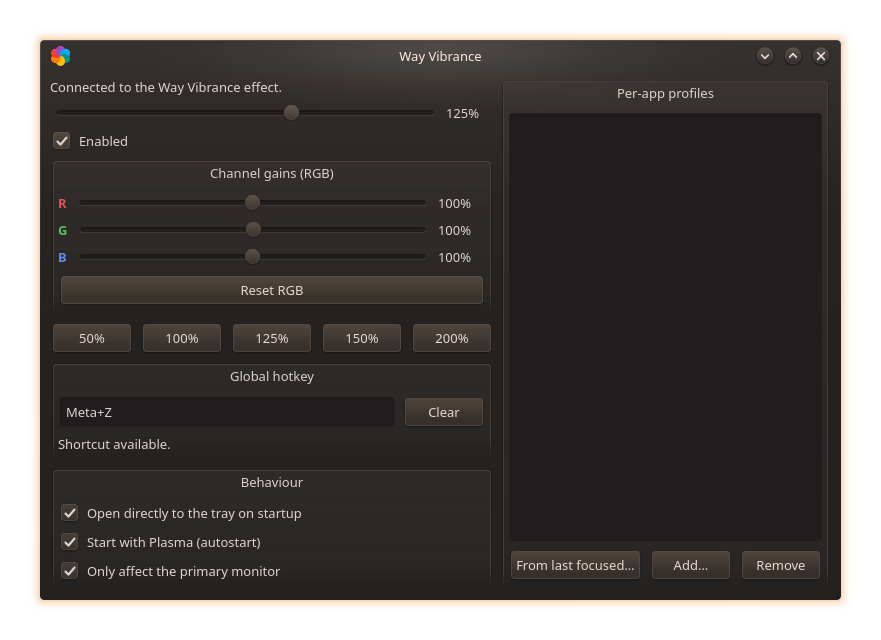
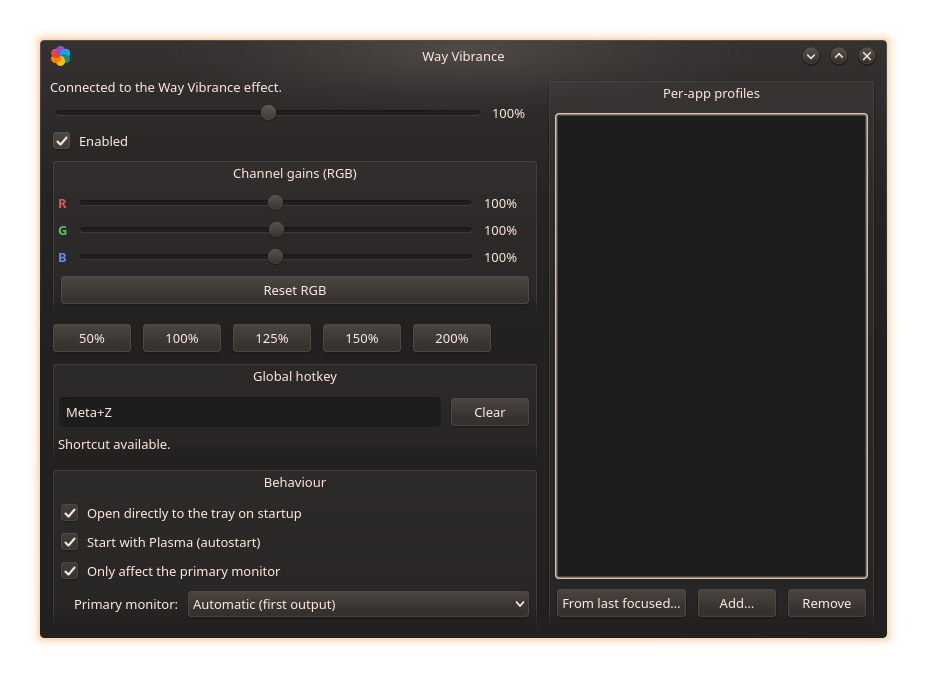
0.5.0: primary monitor targets a picked output
Release contents (since v0.4.0):
- 'Only affect the primary monitor' now scopes to a user-picked output by
  connector name (tray 'Primary monitor' dropdown / CLI 'wayvibrance
  primary {outputs|output <name>|output-get}'), persisted in kwinrc,
  hotplug-safe (falls back to the first output), replacing the
  pointer-following activeScreen() behaviour — with cached in-scope
  resolution per frame.
- New D-Bus surface: screenList(), primaryOutputName/setPrimaryOutputName,
  primaryOutputNameChanged signal; tray hides the picker on older effects.
- Fresh app screenshot showing the monitor dropdown.

Effect binary changed: log out and back in after installing.

diff --git a/tray/main.cpp b/tray/main.cpp
@@ -1486,7 +1486,7 @@ int main(int argc, char *argv[])
 
     KAboutData about(QStringLiteral("org.kde.wayvibrance-tray"),
                      QStringLiteral("Way Vibrance"),
-                     QStringLiteral("0.4.0"),
+                     QStringLiteral("0.5.0"),
                      QObject::tr("System-wide vibrance and per-channel RGB control for KDE Plasma on Wayland"),
                      KAboutLicense::GPL);
     about.setDesktopFileName(QStringLiteral("org.kde.wayvibrance-tray"));

diff --git a/README.pt.md b/README.pt.md
@@ -200,15 +200,18 @@ via D-Bus.
 
 ## Estado
 
-Funcional e em uso diário. Release atual: **v0.4.0** — perfis por
-aplicação/jogo (o carro-chefe do vibrance-gui, um passo à frente: por janela
-em vez de por foco): regras por glob `app:`/`title:` com ganhos de canal por
-perfil, nomes de exibição cosméticos, janela de edição própria com
-Apply/presets e atualização confiável via shaders em contexto; 50% entrou na
-fileira de presets; janela em dois painéis; CLI `wayvibrance app …`; o
-`build.sh` instala dependências sem nunca atualizar o sistema. Tudo do
-v0.3.0 (vibrância, ganhos RGB, hotkey, comportamento) segue valendo, com os
-sliders no teto real de 0–200%.
+Funcional e em uso diário. Release atual: **v0.5.0** — o modo "monitor
+primário" agora mira uma **saída escolhida pelo usuário** (dropdown no tray /
+`wayvibrance primary output <nome>`, persistida; "automático" = primeira
+saída), substituindo o antigo comportamento de seguir o cursor. Sobre a base
+da v0.4.0: perfis por aplicação/jogo (o carro-chefe do vibrance-gui, um passo
+à frente: por janela em vez de por foco) — regras por glob `app:`/`title:`
+com ganhos de canal por perfil, nomes de exibição cosméticos, janela de
+edição própria com Apply/presets e atualização confiável via shaders em
+contexto; 50% entrou na fileira de presets; janela em dois painéis; CLI
+`wayvibrance app …`; o `build.sh` instala dependências sem nunca atualizar o
+sistema. Tudo da v0.3.0 (vibrância, ganhos RGB, hotkey, comportamento) segue
+valendo, com os sliders no teto real de 0–200%.
 
 ## Desenvolvimento
 

diff --git a/README.md b/README.md
@@ -195,15 +195,18 @@ Way Vibrance*, or simply let the tray load it via D-Bus.
 
 ## Status
 
-Functional and in daily use. Current release: **v0.4.0** — per-app/game
-profiles (vibrance-gui's flagship feature, one step further: per-window
-instead of per-focus): `app:`/`title:` glob rules with per-profile channel
-gains, cosmetic display names, a dedicated editor window with Apply/presets
-and reliable live updates via in-context shader management; 50% joins the
-preset row; two-pane window; CLI `wayvibrance app …`; `build.sh` installs
-missing dependencies without ever updating the system. Everything from
-v0.3.0 (vibrance, RGB channel gains, hotkey, behaviour settings) is kept,
-all capped at the real 0–200% range.
+Functional and in daily use. Current release: **v0.5.0** — the "primary
+monitor" mode now targets a **user-picked output** (tray dropdown /
+`wayvibrance primary output <name>`, persisted; "automatic" = first output),
+replacing the old pointer-following behavior. It builds on v0.4.0: per-app/
+game profiles (vibrance-gui's flagship, one step further: per-window instead
+of per-focus) — `app:`/`title:` glob rules with per-profile channel gains,
+cosmetic display names, a dedicated editor window with Apply/presets and
+reliable live updates via in-context shader management; 50% joins the preset
+row; two-pane window; CLI `wayvibrance app …`; `build.sh` installs missing
+dependencies without ever updating the system. Everything from v0.3.0
+(vibrance, RGB channel gains, hotkey, behaviour settings) is kept, all
+capped at the real 0–200% range.
 
 ## Development
 
